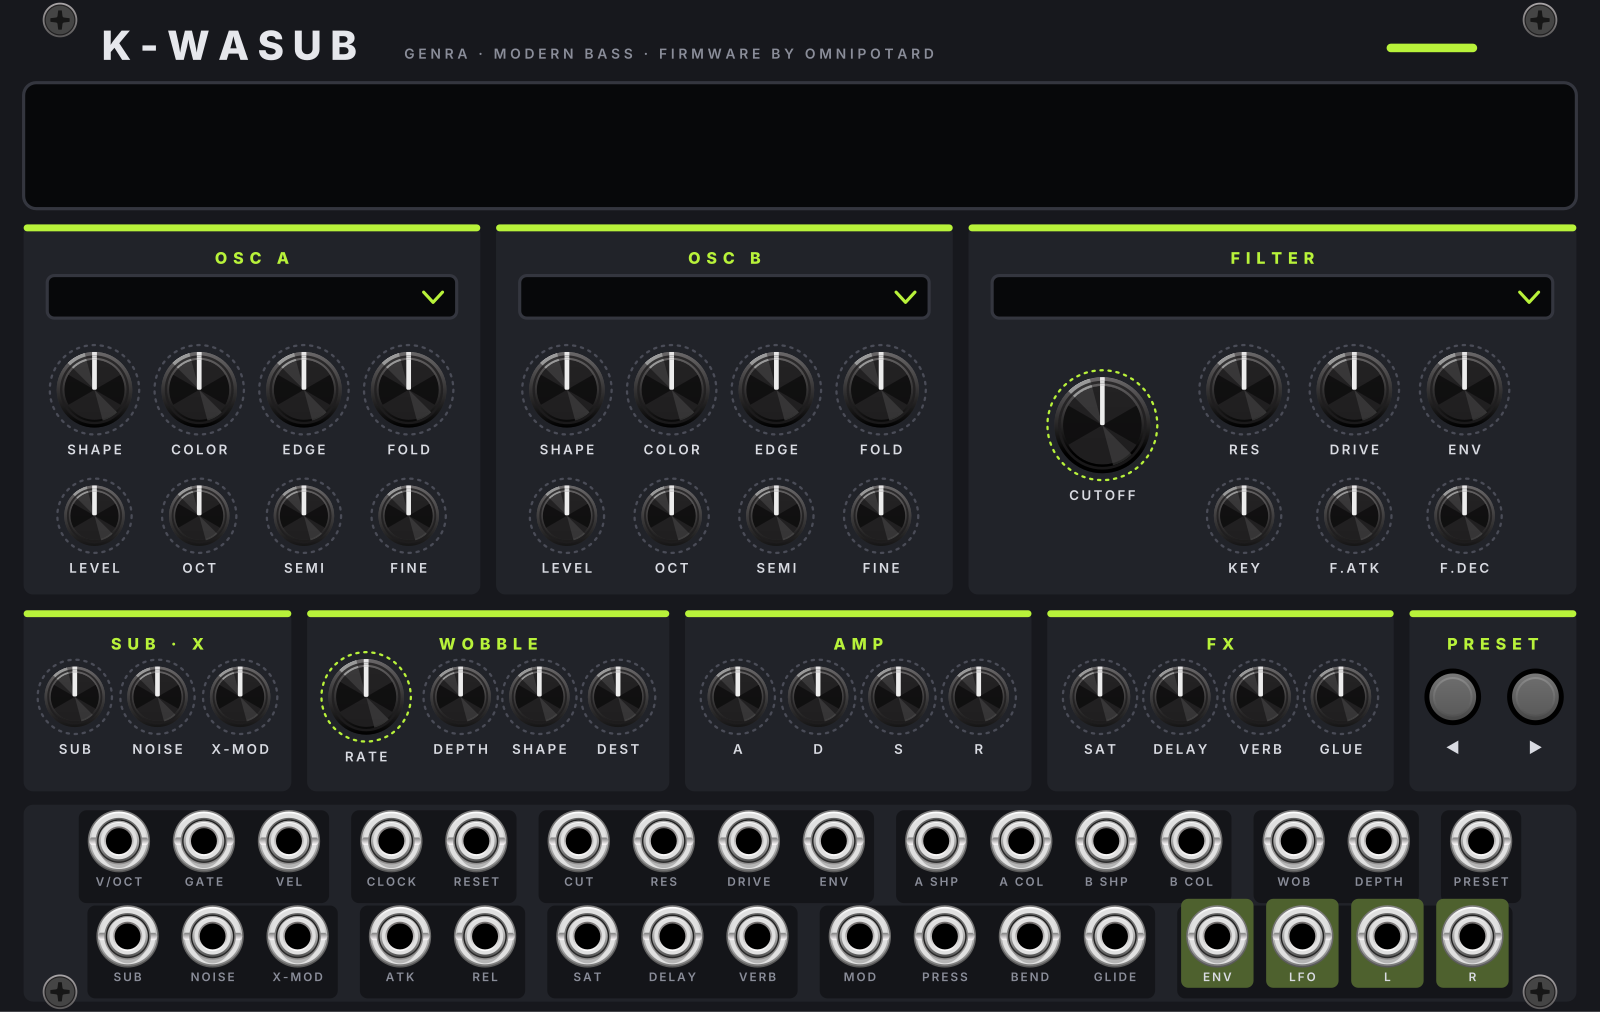
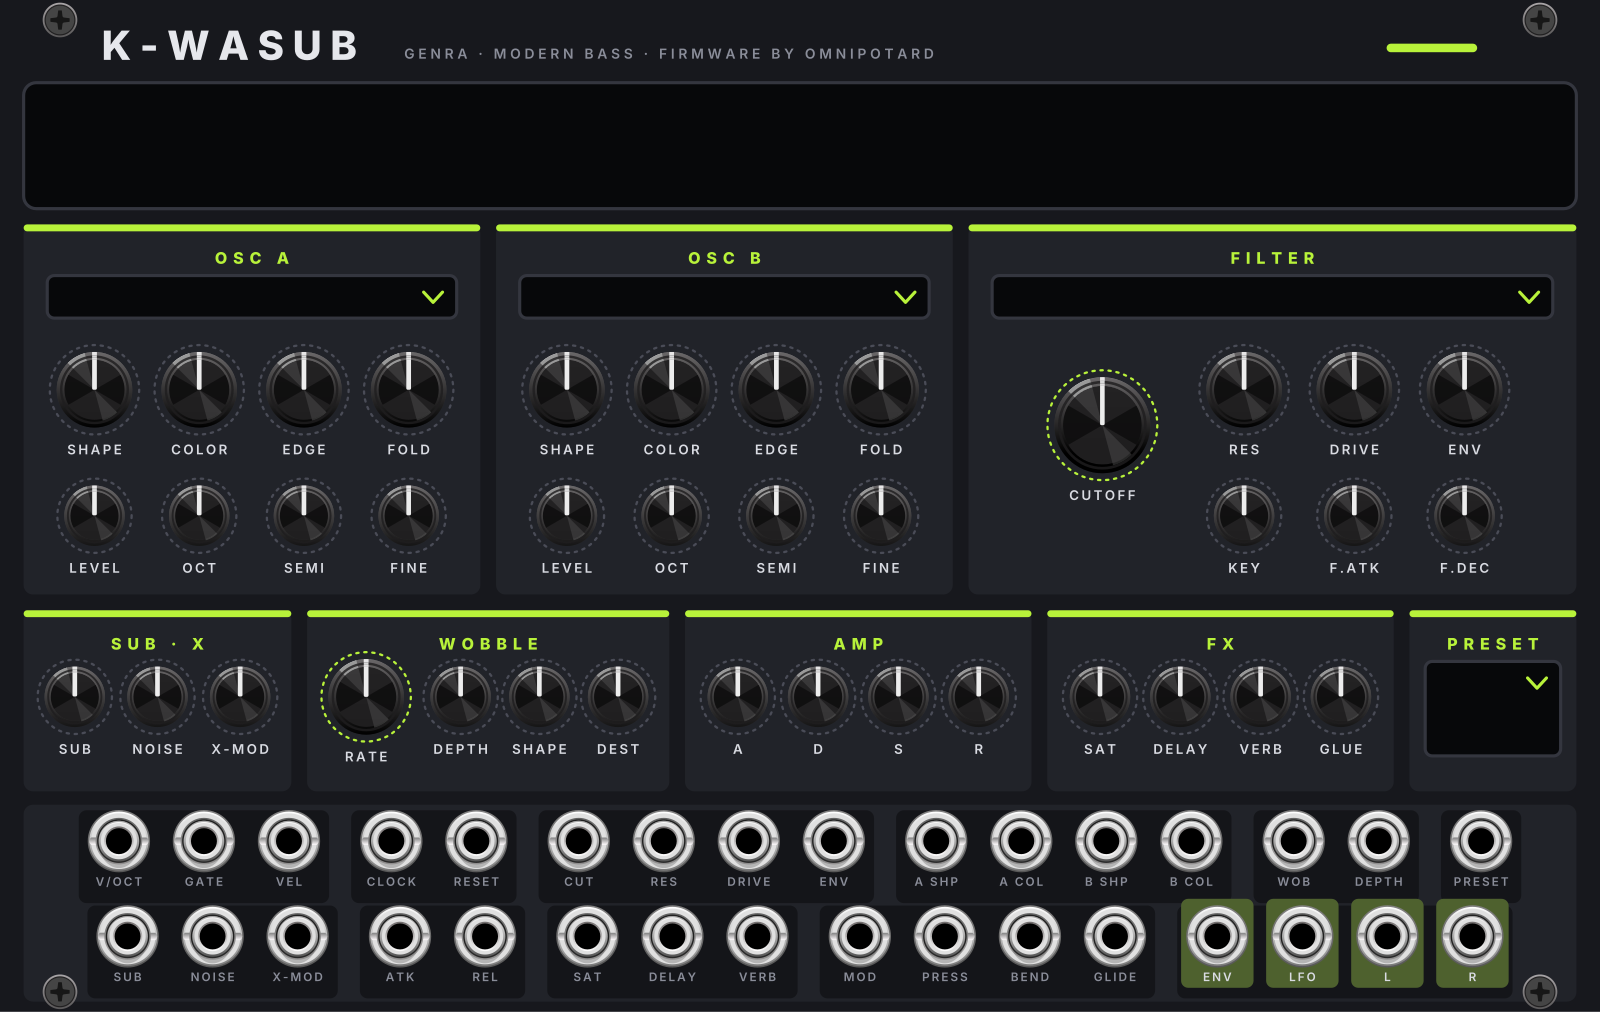
2.8.0: STOTTER and the K-WASUB preset field in README and PROJEKT
Claude-Session: https://claude.ai/code/session_01ETAzGyWxtNnM9jE37MdnTY

Changed region(s): [[0.875, 0.6433, 1.0, 0.7658]]

diff --git a/README.md b/README.md
@@ -1,6 +1,6 @@
 # GENRA v3 – Generativer 4-Spur-Sequencer für VCV Rack 2
 
-Breite: **64 HP** (GENRA) und **50 HP** (Grid Editor). Dazu im selben Plugin die drei JIANT-Stimmen **VOICE** (26 HP), **DRUM-X** (32 HP) und **ANIMAL** (26 HP), **MONK** (26 HP) der Bass-Synth **GENRA MONO** (28 HP), die Melodiestimme **FUNKE** (30 HP) und die Klangmodule aus GENRA SYNTHIS: **SCHMELZ** (32 HP), **MIX** (32 HP), **K-WASUB** und **K-WASUB FX** (je 40 HP), **UMLAUF** (54 HP) und **UMLAUF FX** (36 HP). Projektstand und Entscheidungen: `PROJEKT.md`.
+Breite: **64 HP** (GENRA) und **50 HP** (Grid Editor). Dazu im selben Plugin die drei JIANT-Stimmen **VOICE** (26 HP), **DRUM-X** (32 HP) und **ANIMAL** (26 HP), **MONK** (26 HP) der Bass-Synth **GENRA MONO** (28 HP), die Melodiestimme **FUNKE** (30 HP) und die Klangmodule aus GENRA SYNTHIS: **SCHMELZ** (32 HP), **MIX** (32 HP), **K-WASUB** und **K-WASUB FX** (je 40 HP), **UMLAUF** (54 HP) und **UMLAUF FX** (36 HP), dazu das Performance-Effektmodul **STOTTER** (30 HP). Projektstand und Entscheidungen: `PROJEKT.md`.
 
 ## GENRA Grid Editor (zweites Modul)
 
@@ -86,6 +86,27 @@ Melodie-Ausgängen: V/OCT, GATE, VEL, ACC, SLIDE und CLOCK.
 - **CV:** MODEL, TIMBRE, BITE, CUT (1 V/Okt.), RES, VIB (wie ein Modrad), ECHO, LO-FI, ATK, REL.
   **Ausgänge:** ENV (Hüllkurve der neuesten Note), L, R (nur L gesteckt: mono).
 
+## STOTTER: Performance-Effekte
+
+![STOTTER](docs/entwuerfe/stotter.png)
+
+DJ-Effektpad nach dem Perform-Modus des Polyend Play und Akai Flex Beat, 30 HP, im Farbsystem des GENRA-Hauptmoduls.
+Stereo-Effekt: z. B. GENRAs Drums oder MIX-Ausgang hinein, CLOCK von GENRA.
+
+- **16 Pads** in vier Reihen (Farben der GENRA-Spuren): STUTTER 1/4 … 1/32 · TIME (Halftime, Reverse, Tape Stop,
+  Scratch) · GATE (1/8, 1/16, Trance, Pump) · FX (Echo Out, Freeze, Bitcrush, Rearrange). Jedes Pad spielt ein Muster
+  über einen Takt (das Display zeigt es mit Laufbalken). **4 Bänke** A–D, je 16 Pads.
+- **PERFORM:** LOOP (läuft bis zum nächsten Pad, dasselbe Pad stoppt), 1-SHOT (ein Takt, dann zurück), HOLD (solange
+  gedrückt; LATCH: Druck startet, nächster stoppt), QUANT (Start auf 1/16 … 1 Takt oder sofort), MIX, KILL.
+- **EDIT-Streifen:** P1–P3 stellen das laufende Pad ein (mit EDIT: das angetippte, ohne es zu spielen), < > wählen den
+  Effekt des Pads, INIT setzt es zurück. Alle Pads werden im Patch gespeichert.
+- **EQ** wie ein DJ-Isolator (Linkwitz-Riley, −∞ … +6 dB): GAIN, HIGH, MID, LOW, FREQ (Mitte 200 Hz … 5 kHz), KILL LO/MID/HI,
+  PRE FX (vor oder nach den Effekten). **FILTER:** links Tiefpass, rechts Hochpass, Mitte aus; RESO, DRIVE, INTENSITY
+  (100 %: Pads wie eingestellt, weniger: weicher, mehr: härter).
+- **REC 1 BAR:** nimmt den nächsten Takt auf und spielt ihn statt des Eingangs als Loop. **TAP** ohne Clock.
+- **Eingänge:** IN L/R, CLOCK, RESET (Auflösung im Menü wie GENRA), PADS (poly Gates, Kanal 1 = Pad 1), FILT CV, INT CV,
+  KILLS (poly: Low, Mid, High). **MIDI** im Rechtsklick-Menü: Noten C1–D#2 spielen die Pads, MIDI learn.
+
 ## Aus GENRA SYNTHIS
 
 Die folgenden Module entstanden im eigenen Repo `CamilloGF/vcv-synthis` (Plugin GENRA SYNTHIS) und sind seit 2.6.0 Teil
@@ -143,8 +164,9 @@ eigene kleine Bibliothek (`res/kwcore.*`, eine Kopie pro Modul) mit 44,1 kHz, da
   und welchen Wert sie haben, steht im Display und im Tooltip), LEVEL, OCT, SEMI, FINE.
 - **FILTER:** Typ-Feld (LP 24, LP 12, BAND, HIGH, NOTCH, VOWEL, COMB), CUTOFF, RES, DRIVE, ENV, KEY, Filterhüllkurve.
 - **SUB · X:** Sub, Rauschen, X-Mod · **WOBBLE:** LFO 1 im Tempo (RATE = Notenwert), DEPTH, SHAPE, DEST ·
-  **AMP:** ADSR · **FX:** SAT, DELAY, VERB, GLUE (schalten ihren Effekt ein) · **PRESET:** ◀ ▶ durch die 97 Werksklänge
-  (auch im Rechtsklick-Menü).
+  **AMP:** ADSR · **FX:** SAT, DELAY, VERB, GLUE (schalten ihren Effekt ein) · **PRESET:** Feld mit Stil und Name der
+  97 Werksklänge: Klick (auch auf den Namen im Display) öffnet die Liste, nach Stil sortiert (DNB, DUB, DUBSTEP …, je ein
+  Untermenü, Namen A–Z), das Mausrad blättert in dieser Reihenfolge.
 - **Eingänge:** V/OCT, GATE, VEL (bis 4 Stimmen, auf Halbtöne gerundet), CLOCK (setzt das Tempo; Standard 16tel wie
   GENRA, im Menü 8tel, Viertel, 24 PPQN), RESET (Taktanfang), CV für CUT, RES, DRIVE, ENV, A/B SHAPE und COLOR, WOB,
   DEPTH, PRESET (0–10 V über alle Presets), SUB, NOISE, X-MOD, ATK, REL, SAT, DELAY, VERB, GLIDE; MOD (Modrad),
@@ -304,6 +326,7 @@ src/kwasub/           K-WASUB und K-WASUB FX: Module, Kern-Lader (KwCore), Param
 kwcore/               der K-WASUB-Kern: die Firmware als Bibliothek (res/kwcore.dll beim Build)
 kwasub/               die K-WASUB-Firmware, unverändert (GPL-3.0, Omnipotard)
 src/umlauf/           UMLAUF und UMLAUF FX (Module, Schnittstelle zu VADER)
+src/stotter/          STOTTER (Modul, Engine StotterDsp.hpp, Layout aus tools/stotter_panel.py)
 vader/                VADER (MIT), gepatcht (tools/vader_vendor.sh, tools/vader_patch.py), in plugin.dll gelinkt
 res/Schmelz.svg …     Frontplatten: tools/schmelz_panel.py, mix_panel.py, kwasub_panel.py, umlauf_panel.py,
                       umlauf_fx_panel.py (jeweils real | preview <datei.png> <Rack-Quellen>)

diff --git a/PROJEKT.md b/PROJEKT.md
@@ -1,6 +1,6 @@
 # GENRA – Projektstand
 
-**Stand:** 6. November 2026 · **Plugin 2.7.0: 14 Module** (GENRA, GRID, VOICE, DRUM-X, ANIMAL, MONK, GENRA MONO, FUNKE, SCHMELZ, MIX, K-WASUB, K-WASUB FX, UMLAUF, UMLAUF FX) · Repo: `CamilloGF/genra-v3`
+**Stand:** 6. November 2026 · **Plugin 2.8.0: 15 Module** (GENRA, GRID, VOICE, DRUM-X, ANIMAL, MONK, GENRA MONO, FUNKE, SCHMELZ, MIX, K-WASUB, K-WASUB FX, UMLAUF, UMLAUF FX, STOTTER) · Repo: `CamilloGF/genra-v3`
 Vorgänger: v1 `CamilloGF/vcv-sequenzer-Genra` (2.0.0), v2 `CamilloGF/Genra-v2` (2.1.0, läuft in Rack)
 Plattform: VCV Rack Pro 2.6.6 unter Windows · Build: GitHub Actions (`.github/workflows/main.yml`)
 
@@ -24,6 +24,7 @@ DJ-Effektpad nach Polyend Play (Perform) und Akai Flex Beat: 16 Pads in 4 Bänke
 - Effekte: Stutter, Halftime, Reverse, Tape Stop, Scratch, Gate, Trance, Pump, Echo Out, Freeze, Bitcrush, Rearrange – je 3 Parameter P1–P3, mit < > umbelegbar, INIT
 - EQ wie DJ-Isolator (LR4, −∞ … +6 dB, Kills, FREQ verschiebt die Mitte, PRE/POST), DJ-Filter (LP links/HP rechts), Drive, Intensity, Mix
 - REC 1 BAR (Loop statt Eingang), TAP, CLOCK/RESET wie GENRA, PADS (poly Gates), KILLS (poly), MIDI-Noten C1–D#2 mit MIDI learn
+- K-WASUB (2.8.0): PRESET-Feld statt ◀ ▶, Liste nach Stil sortiert (Kern-API 2: `preset_style`)
 - Dateien: `src/stotter/StotterDsp.hpp` (Engine, Test `test/test_stotter.cpp`), `src/stotter/Stotter.cpp`, `tools/stotter_panel.py` → `res/Stotter.svg` + `src/stotter/StotterLayout.hpp` (30 HP)
 
 ## Wichtige Designentscheidungen
